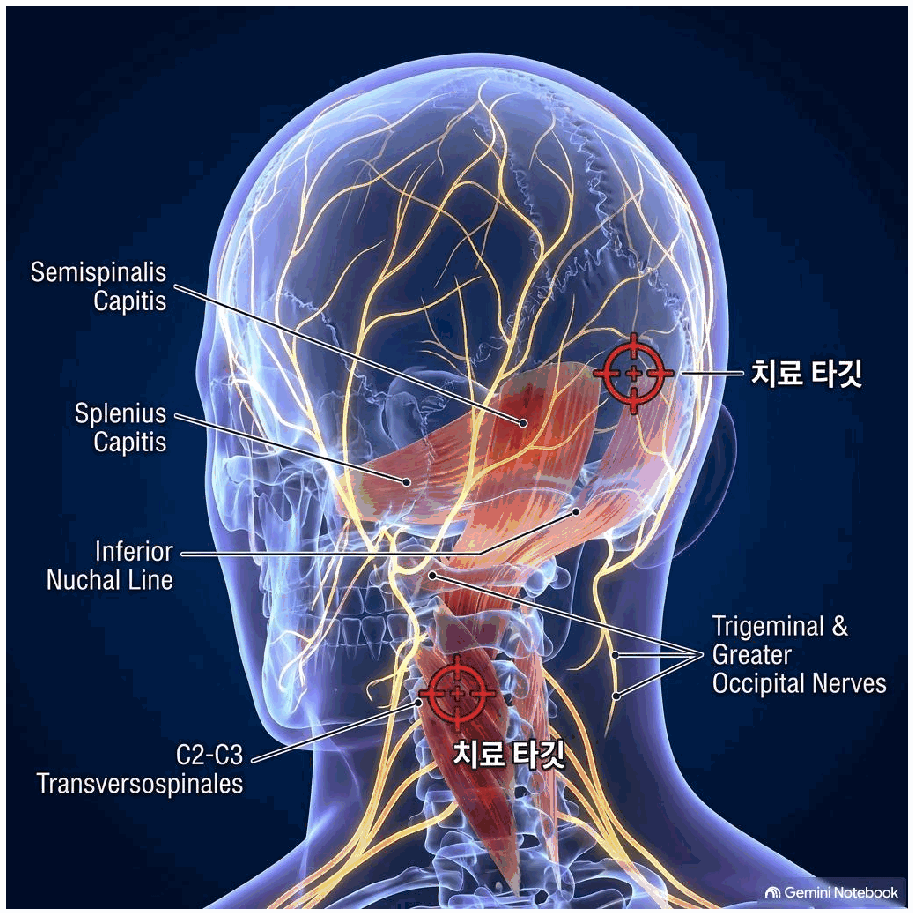
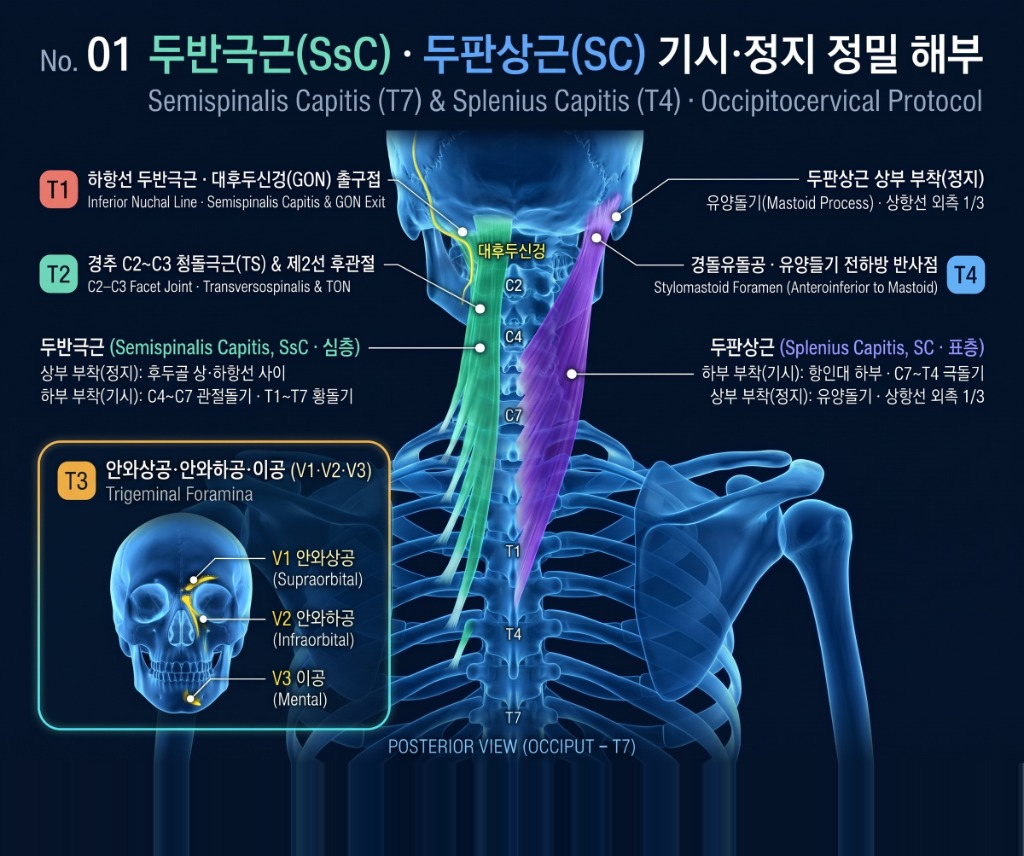
feat(healing-app): upgrade No.01 scalp trigeminal neuralgia SsC/SC plate and align T1-T4 pins

diff --git a/healing-app/js/pain_data.js b/healing-app/js/pain_data.js
@@ -145,7 +145,7 @@ window.PAIN_CONDITIONS = [
     },
     "mechanism": {
       "ko": "신경유착 / 자율신경 오작동",
-      "en": "[신경유착 / 자율신경 오작동] Nerve Entrapment & Autonomic Response"
+      "en": "Nerve Entrapment & Autonomic Dysregulation"
     },
     "mechTags": [
       "nerve",
@@ -160,16 +160,16 @@ window.PAIN_CONDITIONS = [
       "en": "Shooting, stinging, or tingling sensation across the frontal, parietal, and temporal scalp. Hypersensitivity to light touch (even touching hair)."
     },
     "pathophysiology": {
-      "ko": "삼차신경 말초 가지(V1, V2, V3)가 두반극근(SsC)이나 두판상근(SC)의 과 긴장에 의해 C2, C3 레벨에서 신경이 유착되거나 신경 오작동에 의해 과흥 분됨.",
-      "en": "Peripheral branches of trigeminal nerve (V1, V2, V3) are entrapped at C2-C3 level due to hypertonicity of semispinalis capitis (SsC) or splenius capitis (SC), or hyper-excited via S."
+      "ko": "삼차신경 말초 가지(V1·V2·V3) 및 대후두신경(GON)이 두반극근(SsC)·두판상근(SC)의 과긴장에 의해 C2~C3 및 하항선 레벨에서 유착되거나 삼차-경수 복합체(TCC) 및 자율신경 오작동에 의해 과흥분됨.",
+      "en": "Peripheral branches of the trigeminal nerve (V1, V2, V3) and greater occipital nerve (GON) become entrapped at C2-C3 and the inferior nuchal line by hypertonic semispinalis capitis (SsC) and splenius capitis (SC), sensitizing the trigeminocervical complex (TCC)."
     },
     "targetTissues": {
-      "ko": "두반극근(Semispinalis capitis, SsC), 두판상근(Splenius capitis, SC), C2/C3 척추주위 심부근육군.",
-      "en": "Semispinalis capitis (SsC), Splenius capitis (SC), C2/C3 deep paraspinal muscle group."
+      "ko": "두반극근(Semispinalis Capitis, SsC · 기시: C4~C7 관절돌기·T1~T7 횡돌기 / 정지: 후두골 상·하항선 사이), 두판상근(Splenius Capitis, SC · 기시: 항인대 하부·C7~T4 극돌기 / 정지: 유양돌기·상항선 외측 1/3), 경추 C2~C3 횡돌극근(TS), 대후두신경(GON), 삼차신경 골공(V1·V2·V3) 및 경돌유돌공.",
+      "en": "Semispinalis Capitis (SsC, T7-occiput), Splenius Capitis (SC, T4-mastoid), C2-C3 transversospinales (TS), Greater Occipital Nerve (GON), Trigeminal Foramina (V1-V3), and Stylomastoid Foramen."
     },
     "palpation": {
-      "ko": "C2, C3 레벨 TS 및 inferior nuchal line 근처 두반극근 근복의 뚜렷한 압통점.",
-      "en": "Distinct tenderness at C2/C3 level TS and SsC muscle belly near inferior nuchal line."
+      "ko": "① 하항선 두반극근·대후두신경(GON) 출구점 ② 경추 C2~C3 횡돌극근(TS) & 제2선 후관절 ③ 안와상공·안와하공·이공(V1·V2·V3) ④ 경돌유돌공·유양돌기 전하방 반사점.",
+      "en": "1) Inferior nuchal line SsC & GON exit 2) C2-C3 facet joint & transversospinalis (TON) 3) Supraorbital, infraorbital & mental foramina (V1-V3) 4) Stylomastoid foramen anteroinferior to mastoid."
     },
     "clinicalCase": {
       "ko": "수일 전부터 발생한 뒤통수에서 정수리 두피를 따라 방사되는 찌릿한 두통 및 머리카락 접촉 시 과민한 통증 사례. C2, C3 척추주위 심부근 및 두반극근 압통 부위에 NovaCell Therapy(노바셀 생체 전압 및 타깃 공명 치료)를 적용하여 신경 유착을 해소한 결과, 시술 30분 만에 두피 통증 80% 이상 소실 및 자극 과민성 정상화.",
@@ -180,85 +180,85 @@ window.PAIN_CONDITIONS = [
       {
         "code": "T1",
         "color": "#ff334b",
-        "x": 69.3,
-        "y": 40.9,
+        "x": 45.1,
+        "y": 27.0,
         "role": {
           "ko": "주 신경포착점",
           "en": "Primary Nerve Entrapment"
         },
         "name": {
-          "ko": "T1: 하항선 두반극근·대후두신경 출구점 (GON & 삼차신경 교차점)",
-          "en": "T1: Inferior Nuchal Line SsC & GON Exit"
+          "ko": "T1: 하항선 두반극근 · 대후두신경(GON) 출구점",
+          "en": "T1: Inferior Nuchal Line · Semispinalis Capitis & GON Exit"
         },
         "desc": {
-          "ko": "[표적 해부] 하항선(Inferior Nuchal Line) 두반극근(SsC)·두판상근(SC) 상부 부착건막 및 대후두신경(GON).\n[촉지 및 시술] 외후두융기(EOP) 외측 2~2.5cm 상항선·하항선 함요처. 삼차-경수 복합체(TCC) 감작을 해제하여 두피 전체 찌릿함과 모발 접촉 과민통을 즉각 차단합니다.",
-          "en": "Semispinalis capitis & splenius capitis insertion near inferior nuchal line; relieves trigeminocervical complex sensitization."
+          "ko": "[표적 해부] 후두골 상·하항선 사이에 정지하는 두반극근(SsC) 상부 부착건막 및 근육을 관통해 나오는 대후두신경(GON) 출구.\n[촉지 및 시술] 외후두융기(EOP) 외측 2~2.5cm 하항선 함요처. 삼차-경수 복합체(TCC) 감작을 해제하여 두피 전체의 찌릿함과 모발 접촉 과민통을 즉각 차단합니다.",
+          "en": "Semispinalis capitis insertion near the inferior nuchal line where the greater occipital nerve (GON) emerges; relieves trigeminocervical complex sensitization."
         }
       },
       {
         "code": "T2",
         "color": "#00f5d4",
-        "x": 50.1,
-        "y": 76.0,
+        "x": 46.8,
+        "y": 36.0,
         "role": {
           "ko": "후관절·신경근점",
           "en": "Facet & Nerve Root Target"
         },
         "name": {
-          "ko": "T2: 경추 C2-C3 횡돌극근(TS) 및 제2선 후관절 심부점",
-          "en": "T2: C2-C3 Transversospinales & Facet Line 2"
+          "ko": "T2: 경추 C2~C3 횡돌극근(TS) & 제2선 후관절",
+          "en": "T2: C2-C3 Facet Joint · Transversospinalis & TON"
         },
         "desc": {
-          "ko": "[표적 해부] C2-C3 다열근·회선근(TS) 및 제3후두신경(TON) 분절.\n[촉지 및 시술] C2·C3 극돌기 외측 1.5~2cm 경추 제2선 후관절 주두 골막 접촉. 후두부에서 정수리로 뻗치는 방사통의 뿌리 분절을 안정화합니다.",
-          "en": "C2-C3 deep paraspinal transversospinales & TON facet point (Cervical Line 2 Periosteal Contact)."
+          "ko": "[표적 해부] 경추 C2~C3 심부 횡돌극근(TS · 다열근·회선근) 및 제3후두신경(TON) 분절 후관절.\n[촉지 및 시술] C2·C3 극돌기 외측 1.5~2cm 경추 제2선 후관절 골막 접촉. 뒤통수에서 정수리·이마로 뻗치는 두피 방사통의 근위 분절을 안정화합니다.",
+          "en": "C2-C3 deep paraspinal transversospinalis & third occipital nerve (TON) facet point (Cervical Line 2)."
         }
       },
       {
         "code": "T3",
         "color": "#ff9f43",
-        "x": 38.0,
-        "y": 62.0,
+        "x": 19.8,
+        "y": 72.3,
         "role": {
           "ko": "신경 주행·분지점",
           "en": "Nerve Pathway Target"
         },
         "name": {
-          "ko": "T3: 안와상공·안와하공·이공 삼차신경 3분지 골공점 (V1·V2·V3)",
-          "en": "T3: Supraorbital, Infraorbital & Mental Foramina (V1-V3)"
+          "ko": "T3: 안와상공·안와하공·이공 (V1·V2·V3) 삼차신경 골공점",
+          "en": "T3: Trigeminal Foramina (V1 Supraorbital · V2 Infraorbital · V3 Mental)"
         },
         "desc": {
-          "ko": "[표적 해부] 삼차신경 제1지(안와상절흔 V1), 제2지(안와하공 V2), 제3지(이공 V3) 골공 출구.\n[촉지 및 시술] 눈썹 내측 1/3 안와상연(V1), 동공 수직선상 광대뼈 하연 1cm(V2), 하악 제2소구치 하방(V3) 골막 타깃. 안면·두피 말초 분지 과흥분을 진정시킵니다.",
-          "en": "Terminal foramina of Trigeminal nerve branches V1, V2, and V3."
+          "ko": "[표적 해부] 삼차신경 제1지(V1 안와상공), 제2지(V2 안와하공), 제3지(V3 이공) 안면 말초 골공 출구.\n[촉지 및 시술] 눈썹 내측 1/3 안와상연(V1), 동공 수직선상 광대뼈 하연 1cm(V2), 하악 제2소구치 하방(V3) 골막 타깃. 안면·전두부 두피 말초 분지의 과흥분을 진정시킵니다.",
+          "en": "Terminal facial foramina of trigeminal nerve branches V1 (supraorbital), V2 (infraorbital), and V3 (mental)."
         }
       },
       {
         "code": "T4",
         "color": "#38bdf8",
-        "x": 62.0,
-        "y": 38.0,
+        "x": 58.2,
+        "y": 27.7,
         "role": {
-          "ko": "신경 주행·분지점",
-          "en": "Nerve Pathway Target"
+          "ko": "신경 주행·반사점",
+          "en": "Cranial Nerve Reflex Target"
         },
         "name": {
-          "ko": "T4: 경돌유돌공 안면-삼차 신경반사점 (귀불 뒤 오목부)",
-          "en": "T4: Stylomastoid Foramen Cranial Nerve Switch"
+          "ko": "T4: 경돌유돌공 · 유양돌기 전하방 반사점",
+          "en": "T4: Stylomastoid Foramen (Anteroinferior to Mastoid)"
         },
         "desc": {
-          "ko": "[표적 해부] 유양돌기 전하방 경돌유돌공 및 두개저 자율신경 연접부.\n[촉지 및 시술] 귓불 뒤 유양돌기(Mastoid)와 하악지 사이 깊은 함요처. 뇌신경 흥분 역치를 낮추고 측두-두피 방사통을 제어합니다.",
-          "en": "Deep hollow between mastoid process and mandibular ramus; cranial nerve reflex switch."
+          "ko": "[표적 해부] 두판상근(SC)이 정지하는 유양돌기(Mastoid Process) 전하방 경돌유돌공 및 두개저 자율신경 연접부.\n[촉지 및 시술] 귓불 뒤 유양돌기와 하악지 사이 깊은 함요처. 뇌신경 흥분 역치를 낮추고 측두부·두피 방사통을 제어합니다.",
+          "en": "Stylomastoid foramen hollow anteroinferior to the mastoid process; cranial nerve and autonomic reflex switch."
         }
       }
     ],
     "anatomicalLabels": [
-      "Semispinalis Capitis",
-      "Splenius Capitis",
-      "C2-C3 Transversospinales",
-      "Inferior Nuchal Line",
-      "Trigeminal & Greater Occipital Nerves"
+      "Semispinalis Capitis (SsC · C4-T7 to Nuchal Line)",
+      "Splenius Capitis (SC · C7-T4 to Mastoid)",
+      "Greater Occipital Nerve (GON) & C2-C3 Facet (TON)",
+      "Trigeminal Foramina (V1 Supraorbital · V2 Infraorbital · V3 Mental)",
+      "Stylomastoid Foramen (Anteroinferior to Mastoid)"
     ],
     "rifeFreq": 727,
-    "searchKeywords": "두피형 삼차신경통 / 두피 감각신경통 Scalp Trigeminal Neuralgia / Scalp Sensory Neuralgia 전두부, 두정부, 측두부 두피 전체가 톡톡 쏘거나 찌릿찌릿함. 머리카락을 살짝만 건드려도 과민한 자극감 유발. Shooting, stinging, or tingling sensation across the frontal, parietal, and temporal scalp. Hypersensitivity to light touch (even touching hair). 두경부 및 안면 질환 Head, Neck & Facial Disorders"
+    "searchKeywords": "두피형 삼차신경통 두피 감각신경통 삼차신경통 두반극근 SsC 두판상근 SC 대후두신경 GON 안와상공 안와하공 이공 경돌유돌공 유양돌기 C2 C3 후관절 Scalp Trigeminal Neuralgia Semispinalis Capitis Splenius Capitis"
   },
   {
     "id": 2,
